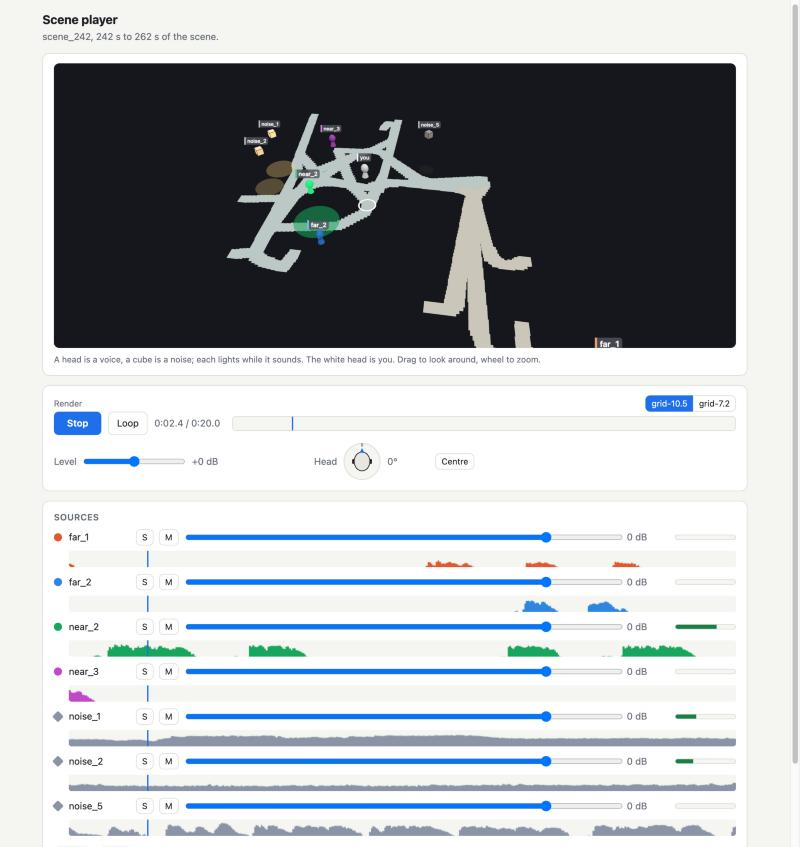
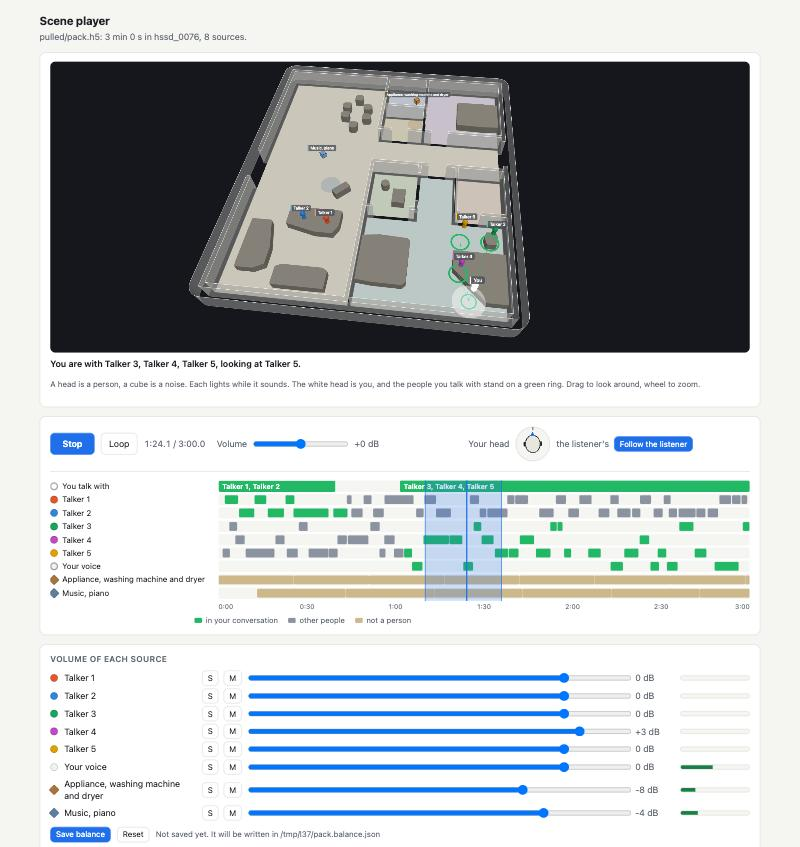
docs(apps): the scene player and the recipe manager: what is on each screen, the balance file's shape for the level table, what a listen costs measured; nothing is rendered behind the listener's back, the camera frames the whole scene

Changed region(s): [[0.0312, 0.0, 0.9375, 1.0], [0.9688, 0.0, 1.0, 0.8902]]

diff --git a/src/reverberate/viz/parts/static/parts.css b/src/reverberate/viz/parts/static/parts.css
@@ -84,7 +84,7 @@ kbd { font: 11px ui-monospace, monospace; border: 1px solid var(--line); border-
 .p-track-rows { display: grid; gap: 4px; margin-bottom: 10px; }
 .p-track { display: grid; grid-template-columns: 14px 6.5em auto auto minmax(120px, 1fr) 4.5em 90px; align-items: center; gap: 8px; }
 .p-track.silent .p-name, .p-track.silent .p-said { opacity: 0.45; }
-.p-chip { width: 12px; height: 12px; border-radius: 50%; display: inline-block; }
+.p-chip { width: 12px; height: 12px; border-radius: 50%; display: inline-block; box-shadow: inset 0 0 0 1px rgba(0, 0, 0, 0.22); }
 .p-chip.noise { border-radius: 2px; transform: rotate(45deg); }
 .p-solo.on { background: #e0a100; border-color: #e0a100; }
 .p-mute.on { background: var(--bad); border-color: var(--bad); }
@@ -103,7 +103,7 @@ kbd { font: 11px ui-monospace, monospace; border: 1px solid var(--line); border-
 .p-dial.led { cursor: default; }
 
 /* The timeline. */
-.p-timeline { --names: 17.5em; }
+.p-timeline { --names: 19em; }
 .p-tl-box { position: relative; }
 .p-tl-rows { display: grid; gap: 3px; }
 .p-tl-row { display: grid; grid-template-columns: var(--names) 1fr; align-items: center; }

diff --git a/src/reverberate/viz/parts/static/scene-view.js b/src/reverberate/viz/parts/static/scene-view.js
@@ -241,8 +241,12 @@ export function createSceneView(element, scene, { gainOf = () => 1, lit: litBy =
   const framed = action.isEmpty() ? box : action;
   const centre = framed.getCenter(new THREE.Vector3());
   centre.y = floorY + 0.8;
-  const reach = Math.max(framed.getSize(new THREE.Vector3()).length(), 5);
-  camera.position.set(centre.x + reach * 0.08, floorY + reach * 0.85, centre.z + reach * 0.62);
+  // From above and a little to the south, far enough that the whole of it is in the picture.
+  const radius = Math.max(framed.getSize(new THREE.Vector3()).length() / 2, 2.5);
+  const away = radius / Math.tan((camera.fov / 2) * RAD);
+  // What is nearest the camera is largest: the picture is aimed a little to the south of the middle.
+  centre.z += 0.12 * framed.getSize(new THREE.Vector3()).z;
+  camera.position.copy(centre).add(new THREE.Vector3(0.06, 0.82, 0.57).normalize().multiplyScalar(away));
   const controls = new OrbitControls(camera, renderer.domElement);
   controls.target.copy(centre);
   controls.maxPolarAngle = Math.PI / 2 - 0.05;

diff --git a/src/reverberate/apps/recipes/static/index.html b/src/reverberate/apps/recipes/static/index.html
@@ -11,6 +11,8 @@
       th, td { text-align: left; padding: 6px 10px; border-bottom: 1px solid var(--line); vertical-align: top; }
       th { color: var(--soft); font-weight: 600; white-space: nowrap; }
       td.n, th.n { text-align: right; font-variant-numeric: tabular-nums; white-space: nowrap; }
+      td.w { white-space: normal; min-width: 9em; }
+      td:first-child { overflow-wrap: anywhere; }
       tbody tr { cursor: pointer; }
       tbody tr:hover, tbody tr.on { background: var(--ground); }
       td.do { white-space: nowrap; text-align: right; }

diff --git a/src/reverberate/apps/recipes/static/app.js b/src/reverberate/apps/recipes/static/app.js
@@ -46,6 +46,7 @@ function fill(row, report) {
   const [snr, cost, rules] = row.late;
   const heard = report.speech_over_noise;
   snr.textContent = heard ? `${heard.least_db} dB at worst, ${heard.median_db} dB typical` : "";
+  snr.className = "n w";
   cost.textContent = report.cost && report.cost.usd !== undefined ? `${report.cost.usd.toFixed(2)} USD, ${Math.round(report.cost.hours * 60)} min` : "";
   rules.textContent = report.valid ? "kept" : `${report.violations.length} broken`;
   rules.className = report.valid ? "good" : "p-bad";

diff --git a/src/reverberate/viz/parts/stems.py b/src/reverberate/viz/parts/stems.py
@@ -71,7 +71,7 @@ def trim(cache: Path, *, budget_gb: float, keep: str | None = None) -> int:
     """Forget the stems of packs, the one opened longest ago first, until within budget.
 
     Called before a pack is opened: a scene listened to whole is some
-    65 MB a second, and what was kept of it goes too once the folder is
+    50 MB a second, and what was kept of it goes too once the folder is
     over, the last of all since it was opened last. ``keep`` names a
     folder that is never forgotten. Only folders named as a pack's stems
     are touched (sixteen hex digits); the bytes freed are returned.
@@ -124,6 +124,8 @@ class Streamed:
         chunk_s = self.session.chunk_samples / float(header.sample_rate_hz)
         self.service.window_chunks = max(1, math.ceil(ahead_s / chunk_s))
         self.session.window_chunks = self.service.window_chunks
+        # Never the rest of the scene behind the listener's back: what is heard, and a little.
+        self.session.background = False
         self.rate = float(header.sample_rate_hz)
         self.frames_total = int(header.samples)
         self.channels = int(header.channels)

diff --git a/src/reverberate/apps/scene/__main__.py b/src/reverberate/apps/scene/__main__.py
@@ -15,7 +15,7 @@ from reverberate.viz.walk_config import find_config, load_config
 
 PORT = 8783
 #: What the stems kept on disk may take before the oldest scenes are forgotten, GB.
-CACHE_GB = 8.0
+CACHE_GB = 12.0
 
 
 def main(argv: list[str] | None = None) -> int:
@@ -69,6 +69,8 @@ def main(argv: list[str] | None = None) -> int:
             ahead_s=args.ahead,
             dry=DrySources(args.clips or data_root() / "clips", data_root() / "voices"),
         )
+        # The scene's first seconds are rendered while the browser opens: pressing play is heard.
+        streamed.want(0)
         told = streamed.status()
         print(f"playing {streamed.pack_path}: {', '.join(streamed.sources)}")
         print(

diff --git a/docs/apps.md b/docs/apps.md
@@ -13,11 +13,132 @@ dependency the inspector does not have.
 | application | command | what it is for |
 | --- | --- | --- |
 | compare | `python -m reverberate.apps.compare FOLDER` | two to N renders of one short scene, by ear, by eye and blind |
-| scene player (a first cut) | `python -m reverberate.apps.scene_player FOLDER` | a scene with its sources in sight and a fader on each |
-| recipes (a first cut) | `python -m reverberate.apps.recipes FOLDER` | the recipes on disk, summarised and held to the rules |
+| scene player | `python -m reverberate.apps.scene PACK` | a whole scene played from its pack, everybody in sight and a fader on each |
+| recipes | `python -m reverberate.apps.recipes [FOLDER]` | the recipes of a folder: listed, one more drawn, one thrown away, one looked at without sound |
 
-Each binds the loopback address, takes `--port` (8780, 8781 and 8782 unless
+Each binds the loopback address, takes `--port` (8780, 8783 and 8784 unless
 said, the next free one when taken) and `--no-browser`.
+
+## Scene player
+
+![The scene player](apps/scene-player.jpg)
+
+`PACK` is a scene pack (`formats/scene-pack.md`), of a recipe of either
+version. The whole scene is played at order 7, each source's stem rendered
+by the signal engine as it is asked for. On the screen, and nothing else:
+
+- **the scene**: the dwelling's rooms and walls (the walls drawn low, so
+  that the rooms are seen into), the seating, the listener as the white
+  head, each person as a head in a colour with a name, turned the way he
+  faces, each noise as a cube with its name. Each lights while it sounds,
+  by the level of its own stem under its fader; the listener's own voice
+  has no head of its own and lights his. The people the listener talks with
+  stand on a green ring joined to him by a line, for as long as the recipe
+  says so. Under the picture, in words: who he is with and what he looks
+  at. Drag to look around, wheel to zoom;
+- **Play** (space), **Loop** (`L`), the time, the **Volume**;
+- **Your head**, with **Follow the listener**: on, which is how the page
+  opens, the head is the listener's of the scene, where he stands and where
+  he looks, and the dial shows it; off, the head stays where it was and is
+  turned by dragging the dial or with the arrow keys;
+- **the timeline**: the first lane says who the listener talks with, then a
+  lane a source with its intervals, green while of the listener's
+  conversation (his own voice too), grey for anybody else, sand for what is
+  not a person; a word thrown in and a laugh are half as high as a turn. A
+  click moves, a drag sets the region the loop turns in, a double click
+  clears it;
+- **the volume of each source**: a solo (`S`), a mute (`M`), a fader from
+  -60 dB, where the source is silent, to +12 dB (a double click puts it
+  back at 0), and its meter; **Save balance** and **Reset**.
+
+What it needs beyond the pack: the dry clips the recipe names (`--clips`,
+`<data root>/clips`), the measured head (`walk.toml`'s), and, for the walls,
+the dataset (`--hssd-root`). Without the dataset the floor is drawn where
+the low band was solved and no wall is.
+
+### The balance
+
+Moving a fader is heard at once and written nowhere. **Save balance**
+writes `pack.balance.json` beside `pack.h5` (`--balance` to write
+elsewhere), and the page says whether what is heard is what the file
+holds. The file is the track list's (`reverberate.apps.balance`, under "The
+track list"), with what the generator's level table reads in `context`:
+
+| key | meaning |
+| --- | --- |
+| `context.pack`, `recipe_sha256`, `dwelling`, `duration_s` | what the balance was set on |
+| `context.levels.<source>.kind`, `subtype`, `label` | what the source is: the recipe's kind and subtype, and the name on the screen |
+| `…recipe_gain_db`, `recipe_level_spl_1m_db` | what the recipe gave it: its gain, and its level at 1 m in free field (version 2) |
+| `…fader_db`, `silent` | what the listener set; `silent` when muted, at the bottom of the fader or left out by a solo |
+| `…set_level_spl_1m_db` | the recipe's level plus the fader: the level the listener would have given the source. `null` for a silent source, which says nothing of a level, and where the recipe says none |
+
+A generator that learns from it draws a class's level towards the
+`set_level_spl_1m_db` of the sources of that `kind` and `subtype` over the
+balances saved.
+
+### What it costs to listen
+
+Measured on the laptop (ten cores, 32 GB), on the first pack of a version 2
+recipe (three minutes, five talkers, the wearer's own voice, two noises):
+
+| | |
+| --- | --- |
+| from the command to the page being served, on an empty cache | 2.8 s |
+| the first half second of every source rendered | 5.1 s after the command |
+| the first 8 s rendered | 7.6 s after the command |
+| from Play to sound, where the stems are rendered | 0.08 to 0.17 s |
+| from Play to sound after a move to a place never rendered | 0.6 to 0.8 s |
+| played against the clock, 20 s at a time | 0.999 to 1.001 s a second, the stream never short |
+| the render while it plays | one core on average, four for the second after a move |
+| memory | 0.6 to 0.9 GB a worker, 3.1 GB for the four; 0.3 GB the server |
+| disk | 50 MB a second listened to: 9.0 GB for the three minutes whole, and 0.7 GB of the sources' noise |
+
+The render is the audit's (`viz/audit_stems.py`): four processes at most,
+each 10 nicer than the server, which render from what is heard to 8 s
+after it (`--ahead`) and stop; nothing is rendered behind the listener's
+back, and nothing at all 20 s after the last request. The stems are kept in
+`<data root>/cache/scene_player` (`--cache`) under a key that is everything
+their bytes depend on, so a second listen renders nothing; at start, the
+scenes opened longest ago are forgotten until the folder is under 12 GB
+(`--cache-gb`).
+
+## Recipes
+
+![The recipes](apps/recipes.jpg)
+
+`FOLDER` is where recipes are looked for and written, `<data root>/recipes`
+unless said. On the screen:
+
+- **a new recipe**: the **Dwelling**, a **Seed**, the **Scene** (quiet,
+  medium or lively: `SocialParameters.preset`), the **Length** in seconds,
+  and **Generate**, which writes
+  `<dwelling>_<scene>_seed<seed>_<length>s.json` in the folder. The clips are
+  the library's (`scenes/library/clarify_v1.json`); the dwelling's computed
+  assets are those of a recipe of that dwelling already in the folder, and
+  placeholders where there is none, which the page says: such a recipe is
+  looked at, and a trace refuses it;
+- **the list**, a line a recipe: its length, the people who talk (and the
+  listener's own voice), the groups they talk in, the noises, the calmness,
+  the conversation over the noise where the listener stands (the worst turn
+  and the median, `scenes.levels.conversation_snr`), what its trace is
+  predicted to cost on the machine the first scene was traced on
+  (`scenes.cost.predict`), and whether it keeps every rule
+  (`scenes.validate`, with the dwelling's floor when the dataset is there).
+  A click shows the rules broken and, folded, everything
+  `scenes.describe` says;
+- **Open**: the viewer, in another tab;
+- **Delete**: the recipe is moved to `FOLDER/trash/<UTC time>_<name>`.
+  Nothing is ever erased, and what is in the trash is not listed.
+
+### The viewer
+
+![The recipe viewer](apps/recipe-viewer.jpg)
+
+The scene player's picture and timeline, with no sound and no pack: where
+everybody is, where the listener looks and who is of his conversation are
+the recipe's alone (`scenes.kinematics`), and a source lights while the
+recipe says it sounds. **Play**, **Loop** and the timeline are all there
+is to press. A recipe is judged here before a cent is spent on its trace.
 
 ## Compare
 
@@ -141,6 +262,22 @@ player.play(); player.select(items[1].id); player.turn({ yaw: 30 });
 The audio thread is the inspector's worklet and the filters are turned by
 its `rotateSpectra`; two ears go through the same thread with filters that
 change nothing. `player.output()` is the node the two ears leave by.
+`player.setFollowing(false)` frees the head from the scene's: it stays
+where it was and `turn` then sets it in the scene's frame.
+
+`createTransport(element, player, { bar, level, head, follow })` leaves out
+what a page has no use for, and with `follow` gives the head its switch.
+`createClock(seconds)` (`static/clock.js`) has a player's manners and no
+sound, for a page on which nothing is heard.
+
+### A scene from its pack (`viz/parts/stems.py`)
+
+`Streamed(pack, cache)` stands where a `Library` stands, with one item, the
+scene, whose stems are the pack's sources: a request for frames waits for
+the chunks it covers, which the engine renders then. `levels(from, to)`
+gives each stem's level a step of the pack, `None` where nothing is
+rendered yet; `trim(cache, budget_gb=)` forgets the scenes opened longest
+ago.
 
 ### The sonogram (`viz/parts/sonogram.py`, `static/sonogram.js`)
 
@@ -159,6 +296,11 @@ its meter and its level over the window. Every change is saved at once in
 `<FOLDER>_listening/balance.json` and the player asks its frames under it,
 so the mix heard is the one the file holds; "Export" downloads the same
 document. `balance.gains` is the one place a balance becomes factors.
+`createTrackList(element, { save: true, lanes: false })` is the scene
+player's: the file is written by "Save balance" (`Media(...,
+autosave=False)`, `POST api/balance/save`) and no lane is drawn, the page
+having a timeline. `Media(..., tracks=)` gives each source the name and the
+colour the application knows it by.
 
 | key | meaning |
 | --- | --- |
@@ -166,56 +308,48 @@ document. `balance.gains` is the one place a balance becomes factors.
 | `sources` | for each source `gain_db`, `mute`, `solo` |
 | `gains` | the factor each source's stem was multiplied by |
 
-### The scene (`viz/parts/scene.py`, `static/scene-view.js`)
+### The scene (`viz/parts/scene.py`, `static/scene-view.js`, `timeline.js`)
 
-`scene_view(pack, window)` gives where the listener and each source are, a
-value every 0.1 s, and the floor: the cells the pack's low band was solved
-at. `createSceneView(element, scene)` draws a voice as a head in its colour
-with its name, a noise as a cube, the listener as the white head; each
+`pack_scene(pack, plan)` and `recipe_scene(recipe, plan)` give one
+document: where the listener and each source are, a value every 0.1 s (the
+pack's own tables, or the recipe's kinematics), and who is what, which is
+`cast(recipe)`: each source's name in words, its shape (a head, a marker, or
+the listener's own voice), its colour, its intervals with what each is to
+the listener (`conversation`, `outside`, `noise`), the spans of the
+listener's conversation with their members, and what he looks at.
+`plan_of(layout)` is the dwelling: the rooms' outlines, the walkable floor
+whose boundary is the walls, the seating, the data the inspector's scene
+view draws (`viz.scene_api.layout_payload`). `head_track(pack)` is the
+scene's own head for `player.setSceneHead`.
+
+`createSceneView(element, scene, { gainOf, lit })` draws it; each source
 lights by its own stem's level under its fader, dark at -80 dB and full at
--45 dB.
+-45 dB, or with `lit: "intervals"` while the recipe says it sounds.
+`createTimeline(element, scene, player)` draws the lanes and moves the
+player.
 
 ### Numbers by third octave (`static/bands.js`)
 
 `drawBands(element, { bandsHz, series, rangeDb, markHz })`: a line a series
 on a logarithmic axis and a scale that does not follow the data.
 
-## The scene player and the recipes, and what remains
+## What remains
 
-![The scene player](apps/scene-player.jpg)
-
-The scene player plays a folder of the kit that holds order 7 stems: the
-scene, the transport and the head, a track list with a lane a source. It
-remains to:
-
-- play a whole scene from a pack, its stems rendered as they are asked for
-  (`viz/audit_stems.py` does it for the inspector; here the window is what
-  the kit rendered);
-- draw the dwelling: the floor is the pack's cells, which are where the
-  head goes, and no wall is drawn;
-- a timeline that shows who speaks when beyond the lanes: the recipe's
-  intervals, the listener's path, a click on a source to solo it;
-- take what the recipes learn from a balance back to the generator.
-
-![The recipes](apps/recipes.jpg)
-
-The recipe manager lists the recipes under a folder and, for the one
-chosen, shows `reverberate.scenes.describe` and every rule
-`reverberate.scenes.validate` finds broken; with the dataset at hand it
-draws one from a dwelling and a seed with the generator's defaults and
-saves it in `--save-in`. It remains to:
-
-- set the generator's parameters (the generator is being rewritten: the
-  page keeps to the package's public functions and shows no parameter);
-- check a recipe read from disk against its dwelling's floor, which needs
-  the dataset;
-- summarise many recipes side by side (how much speech, how many sources at
-  once, the distances) and delete or rename one;
-- open a recipe in the scene player.
+- The generator does not read a balance yet: the file's shape is fixed
+  here, the level table that learns from it is the generator's to write.
+- A chunk in which a source has just stopped holds what is left of its
+  filters, down to 1e-28 of full scale, and is written whole (6.1 MB) where
+  a chunk of zeros is not: 43 of the 1984 chunks of the first pack's first
+  two minutes. The rule that a stem is the engine's bytes is the audit's,
+  and is left as it is.
+- The manager draws with a preset's parameters and no other; a recipe's
+  parameters are read in "Everything the recipe says".
+- The viewer plays at the clock's speed; a recipe of twenty minutes is
+  looked at by moving along its timeline.
 
 ## Writing another
 
 A package under `reverberate/apps/` with a `static/` folder: build an
 `AppServer`, mount a `Media` on what is played, add the routes the purpose
-needs, and join the parts in one module of the page. `apps/scene_player` is
-the shortest example: 98 lines of Python and 58 of JavaScript.
+needs, and join the parts in one module of the page. `apps/scene` is the
+example: 180 lines of Python and 80 of JavaScript.
